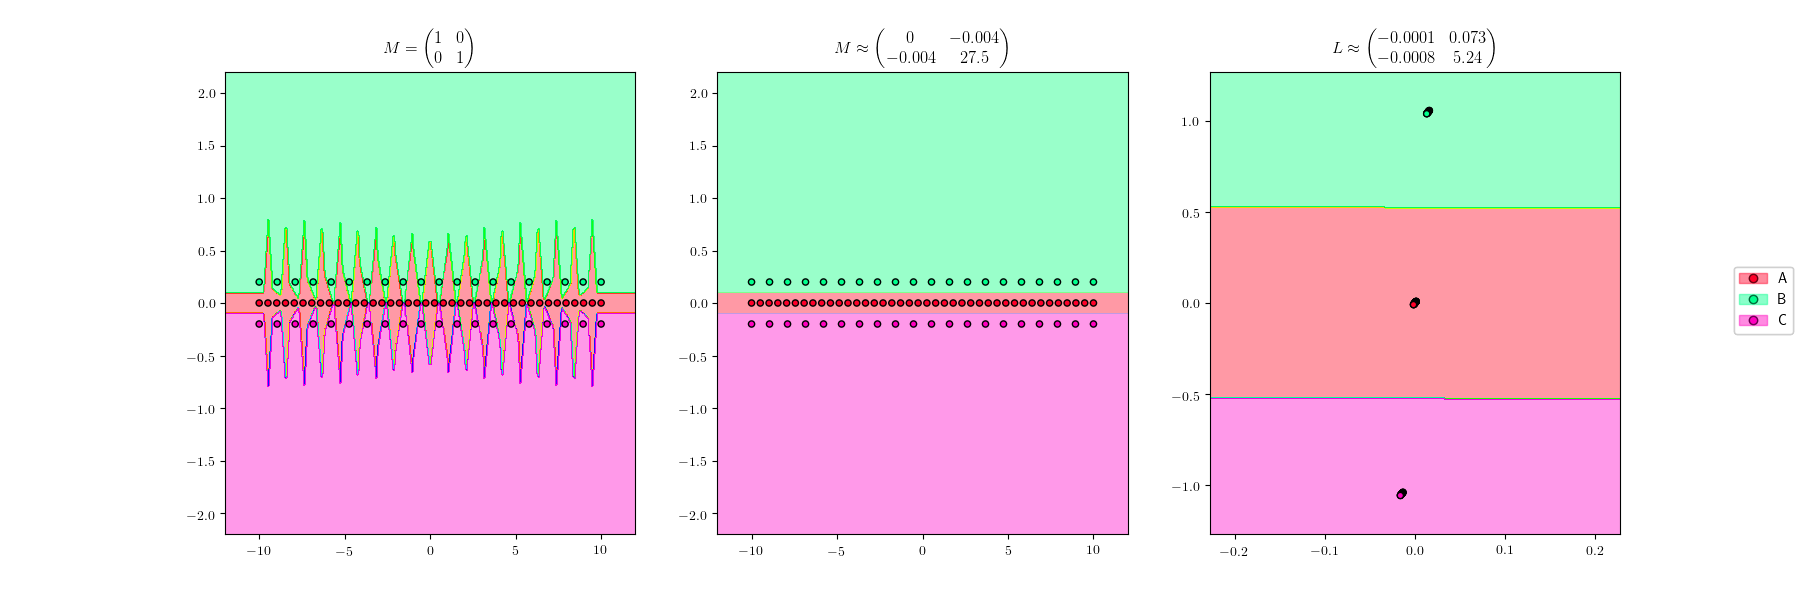
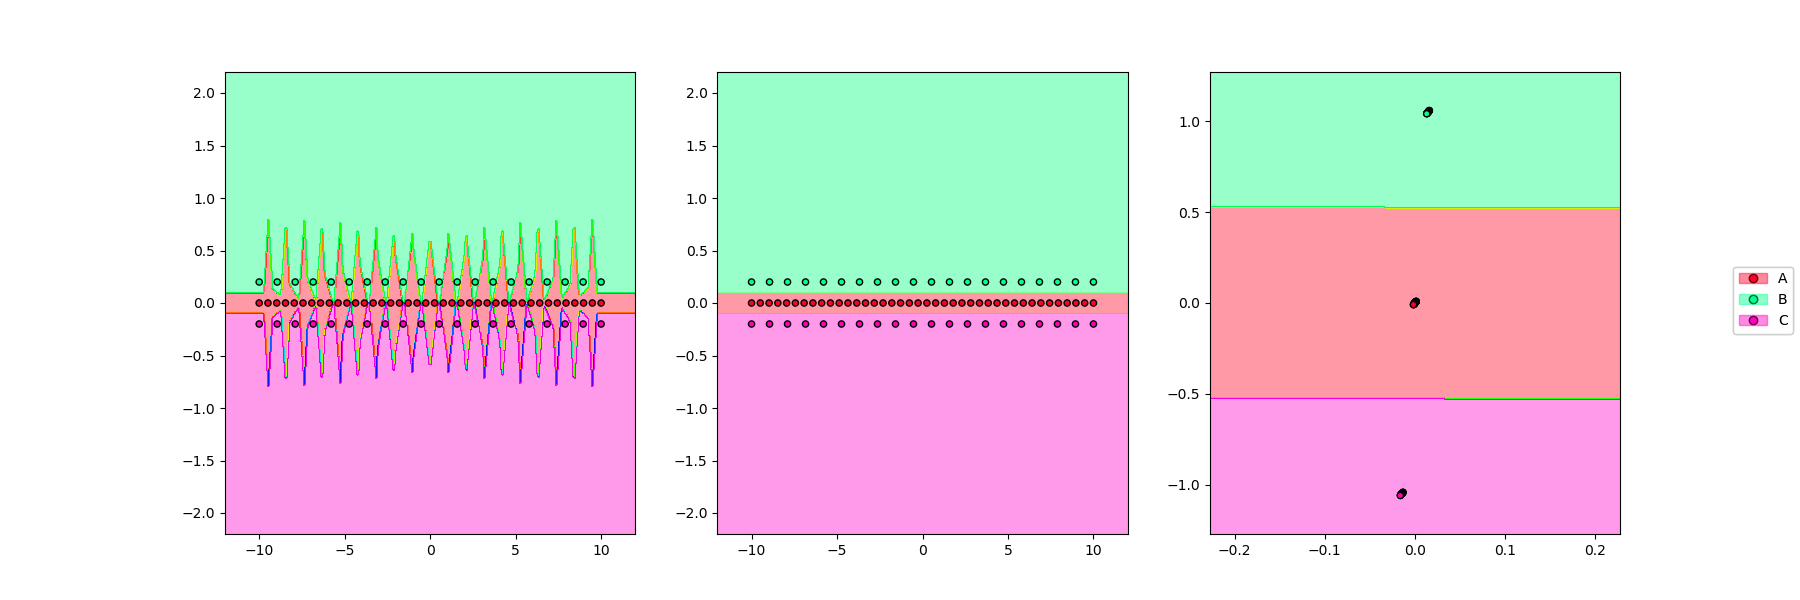
Fixed travis for plots

diff --git a/test/test_plot.py b/test/test_plot.py
@@ -378,14 +378,14 @@ class TestPlot:
         y = np.concatenate([ya, yb, yc])
 
         nca = NCA()
-        rcParams['text.usetex'] = 'True'
-        rcParams['text.latex.preamble'] = r'\usepackage{amsmath}'
+        # rcParams['text.usetex'] = 'True' # Latex installed needed
+        # rcParams['text.latex.preamble'] = r'\usepackage{amsmath}'
         nca.fit(X, y)
         dml_multiplot(X, y, nrow=1, ncol=3, ks=[1, 1, 1], fitted=True, dmls=[None, nca, nca],
                       transforms=[False, False, True], cmap="gist_rainbow",
-                      subtitles=[r'$M=\begin{pmatrix}1 & 0 \\ 0 & 1 \end{pmatrix}$',
-                                 r'$M \approx \begin{pmatrix} 0 & -0.004 \\ -0.004 & 27.5 \end{pmatrix}$',
-                                 r'$L \approx \begin{pmatrix} -0.0001 & 0.073 \\ -0.0008 & 5.24 \end{pmatrix}$'],
+                      # subtitles=[r'$M=\begin{pmatrix}1 & 0 \\ 0 & 1 \end{pmatrix}$',
+                      #            r'$M \approx \begin{pmatrix} 0 & -0.004 \\ -0.004 & 27.5 \end{pmatrix}$',
+                      #            r'$L \approx \begin{pmatrix} -0.0001 & 0.073 \\ -0.0008 & 5.24 \end{pmatrix}$'],
                       figsize=(18, 6))
         self.newsave()
         plt.close()
@@ -404,14 +404,14 @@ class TestPlot:
         ax[0].set_xlim((-1.2, 1.2))
         ax[0].set_ylim((-1.2, 1.2))
         ax[0].scatter(LX[:, 0], LX[:, 1])
-        ax[0].set_title(r'$L=\begin{pmatrix}1 & 0 \\ 0 & 1 \end{pmatrix}$')
+        # ax[0].set_title(r'$L=\begin{pmatrix}1 & 0 \\ 0 & 1 \end{pmatrix}$')
 
         pca = PCA(num_dims=2)
         pca.fit(LX, y)
 
         ax[1].set_xlim((-1.2, 1.2))
         ax[1].set_ylim((-1.2, 1.2))
-        ax[1].set_title(r'$L=\begin{pmatrix}\sqrt{2}/2 & \sqrt{2}/2 \\ \sqrt{2}/2 & -\sqrt{2}/2 \end{pmatrix}$')
+        # ax[1].set_title(r'$L=\begin{pmatrix}\sqrt{2}/2 & \sqrt{2}/2 \\ \sqrt{2}/2 & -\sqrt{2}/2 \end{pmatrix}$')
         LLX = pca.transform()
         ax[1].scatter(LLX[:, 0], LLX[:, 1])
 
@@ -421,7 +421,7 @@ class TestPlot:
         LLXy = [0 for i in range(LLX2.size)]
         ax[2].set_xlim((-1.2, 1.2))
         ax[2].set_ylim((-1.2, 1.2))
-        ax[2].set_title(r'$L=\begin{pmatrix}\sqrt{2}/2 & \sqrt{2}/2\end{pmatrix}$')
+        # ax[2].set_title(r'$L=\begin{pmatrix}\sqrt{2}/2 & \sqrt{2}/2\end{pmatrix}$')
         ax[2].scatter(LLX2[:, 0], LLXy)
         self.newsave()
         plt.close()
